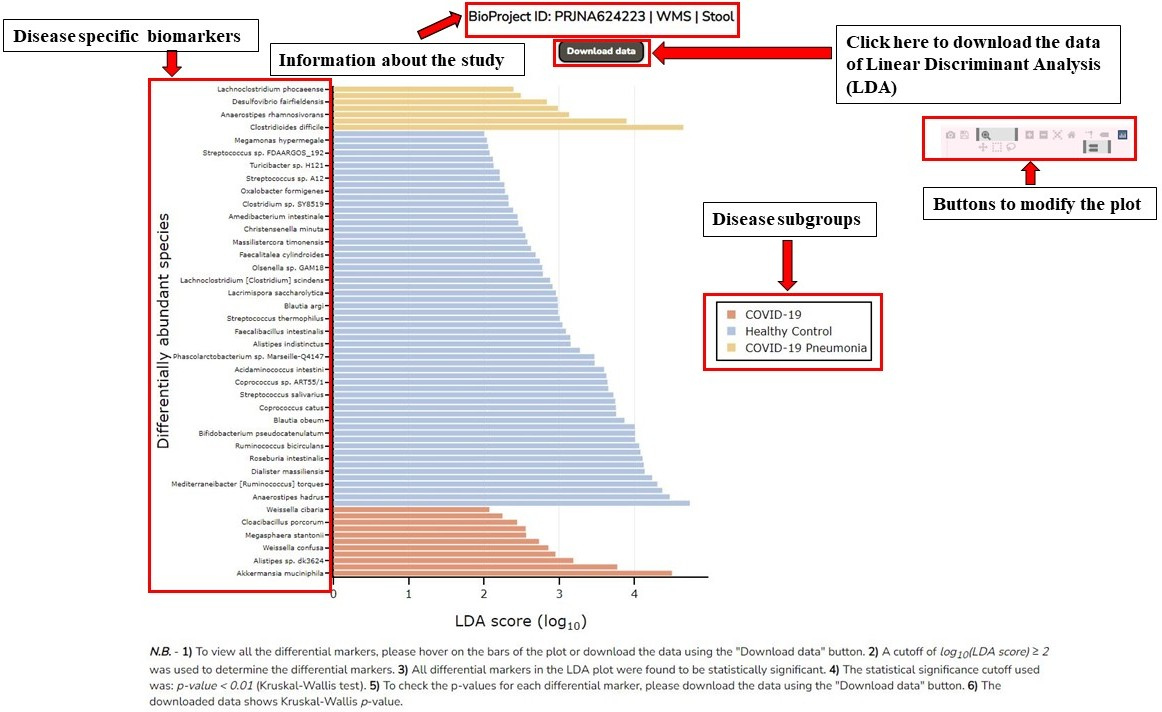
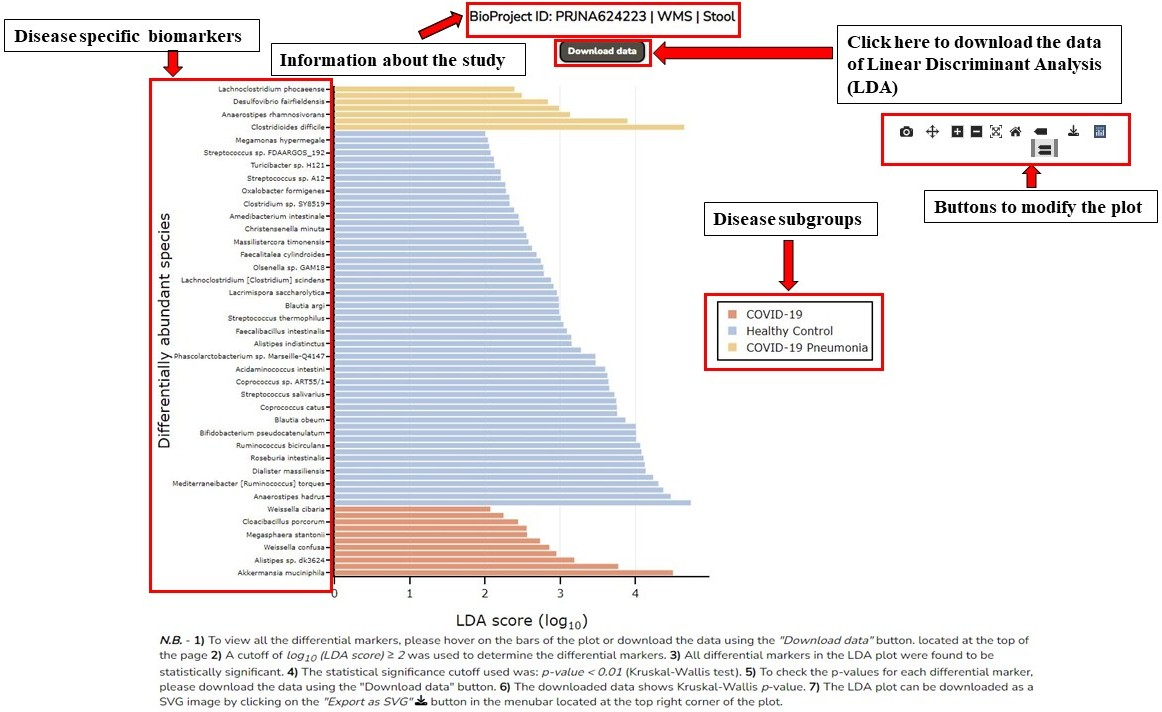
Update 'Help' page

diff --git a/help.html b/help.html
@@ -51,7 +51,9 @@
                         <li>
                             <p>The <b>search result page</b> provides information about the Run ID, BioProject ID,
                             SRA Study ID, Disease, Disease Sub-group, Isolation Source, Instrument, Assay Type,
-                            Country, and Year.</p>
+                            Country, and Year. The table displayed in the search result can be downloaded in CSV
+                            format by clicking on the <i>"Download table"</i> button located at the top of the
+                            page.</p>
                             <center><img src="resource/search_result.jpg" height="400px" /></center>
                         </li>
                         <li>
@@ -74,8 +76,13 @@
                             bars represent the genus/species and the length of the bar denotes the LDA score
                             (log<sub>10</sub>). LDA score signifies the effect size of each differentially
                             abundant microbe. A cut-off of <i>log<sub>10</sub> LDA &ge; 2</i> was chosen for
-                            making the plot. The Kruskal-Wallis cutoff <i>p-value &lt; 0.01</i> was chosen.
-                            <center><img src="resource/lda.jpg" height="600px" /></center>
+                            making the plot. The Kruskal-Wallis cutoff <i>p-value &lt; 0.01</i> was chosen. The
+                            LDA plot can be downloaded as a SVG image by clicking on the <i>"Export as SVG"</i>
+                            <svg xmlns="http://www.w3.org/2000/svg" height="1em" viewBox="0 0 512 512">
+                                <path d="M288 32c0-17.7-14.3-32-32-32s-32 14.3-32 32V274.7l-73.4-73.4c-12.5-12.5-32.8-12.5-45.3 0s-12.5 32.8 0 45.3l128 128c12.5 12.5 32.8 12.5 45.3 0l128-128c12.5-12.5 12.5-32.8 0-45.3s-32.8-12.5-45.3 0L288 274.7V32zM64 352c-35.3 0-64 28.7-64 64v32c0 35.3 28.7 64 64 64H448c35.3 0 64-28.7 64-64V416c0-35.3-28.7-64-64-64H346.5l-45.3 45.3c-25 25-65.5 25-90.5 0L165.5 352H64zm368 56a24 24 0 1 1 0 48 24 24 0 1 1 0-48z"/>
+                            </svg>
+                            button in the menubar located at the top right corner of the plot.
+                            <center><img src="resource/lda.jpg" height="650px" /></center>
                         </li>
                         <li>
                             <p>The taxonomic composition of microbiome data of different isolation sources of lung
@@ -137,7 +144,10 @@
                             <p>The <b>UpSet plot</b> shows the number of organisms that are found in the lungs, gut,
                             and microbiomes. The <b>Likert plot</b> (diverging bar plot) depicts the prevalence of
                             the organisms that are found in both lung and gut microbiomes. A <i>prevalence cut-off</i>
-                            of 50% at a <i>detection level &ge; 0.0001</i> was taken to get the prevalent taxa.</p>
+                            of 50% at a <i>detection level &ge; 0.0001</i> was taken to get the prevalent taxa. The
+                            UpSet plot can be downloaded as a SVG image by clicking on the <i>"Download UpSet plot"</i>
+                            button located at the top of the page. The Likert plot can be downloaded as a SVG image by
+                            clicking on the <i>"Download Likert plot"</i> button located at the top of the page.</p>
                             <center><img src="resource/similarity_figure.jpg" height="500px" /></center>
                         </li>
                         <li>
@@ -151,7 +161,7 @@
                             <i>log<sub>10</sub> LDA &ge; 2</i>). With the <b>"Get heatmap"</b> option users can get the
                             most abundant taxa (cut-off <i>log<sub>10</sub> LDA &ge; 3</i>) for the disease pair and the
                             BioProjects as the source of marker taxa.</p>
-                            <center><img src="resource/heatmap.jpg" height="600px" /></center>
+                            <center><img src="resource/heatmap.jpg" height="450px" /></center>
                             <p>There are few buttons to modify the plot.</p>
                             <center><img src="resource/symbols.jpg" height="250px" /></center>
                         </li>
